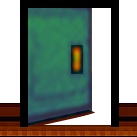
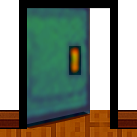
Novo Mapa Salas

Changed region(s): [[0.0, 0.0, 1.0, 1.0]]

diff --git a/src/main/EventHandler.java b/src/main/EventHandler.java
@@ -70,7 +70,7 @@ public class EventHandler {
 	                teleport(1, 57, 51); // Teleporta para o mapa 1
 	            }
 	            if (hit(0, 35, 25, "any") && fPressedNow) {
-	                teleport(2, 76, 32); // Teleporta para o mapa 2
+	                teleport(2, 69, 33); // Teleporta para o mapa 2
 	            }
 	            if (hit(0, 37, 28, "any") && fPressedNow) {
 	                teleport(3, 22, 83); // Teleporta para o mapa 3
@@ -82,7 +82,7 @@ public class EventHandler {
 			    }
 
 			else if(gp.currentMap == 2) { // MAPA 02
-			    if(hit(2, 76, 33, "any") && fPressedNow){teleport(0,35,24);} 
+			    if(hit(2, 69, 34, "any") && fPressedNow){teleport(0,35,24);} 
 			}
 			else if(gp.currentMap == 3) { // MAPA 03
 

diff --git a/src/main/AssetSetter.java b/src/main/AssetSetter.java
@@ -38,8 +38,8 @@ public class AssetSetter {
 		
 		mapNum = 2;	
 		gp.obj[mapNum][i] = new obj_Door(gp);
-		gp.obj[mapNum][i].worldX = gp.tileSize*76;
-		gp.obj[mapNum][i].worldY = gp.tileSize*33;
+		gp.obj[mapNum][i].worldX = gp.tileSize*69;
+		gp.obj[mapNum][i].worldY = gp.tileSize*34;
 		i++;
 		gp.obj[mapNum][i] = new obj_Gaveteiro(gp);
 		gp.obj[mapNum][i].worldX = gp.tileSize*75;

diff --git a/src/tile/TileManager.java b/src/tile/TileManager.java
@@ -80,7 +80,7 @@ public class TileManager {
 		// Carrega o mapa a partir de um arquivo de texto e diz qual numero do mapa
 		loadMap("/maps/sampleM1.txt", 0);
 		loadMap("/maps/sampleM2.txt", 1);
-		loadMap("/maps/sampleM3.txt", 2);
+		loadMap("/maps/sampleM4.txt", 2);
 		loadMap("/maps/sampleM3.txt", 3);
 		loadMap("/maps/sampleM3.txt", 4);
 		loadMap("/maps/sampleM3.txt", 5);
